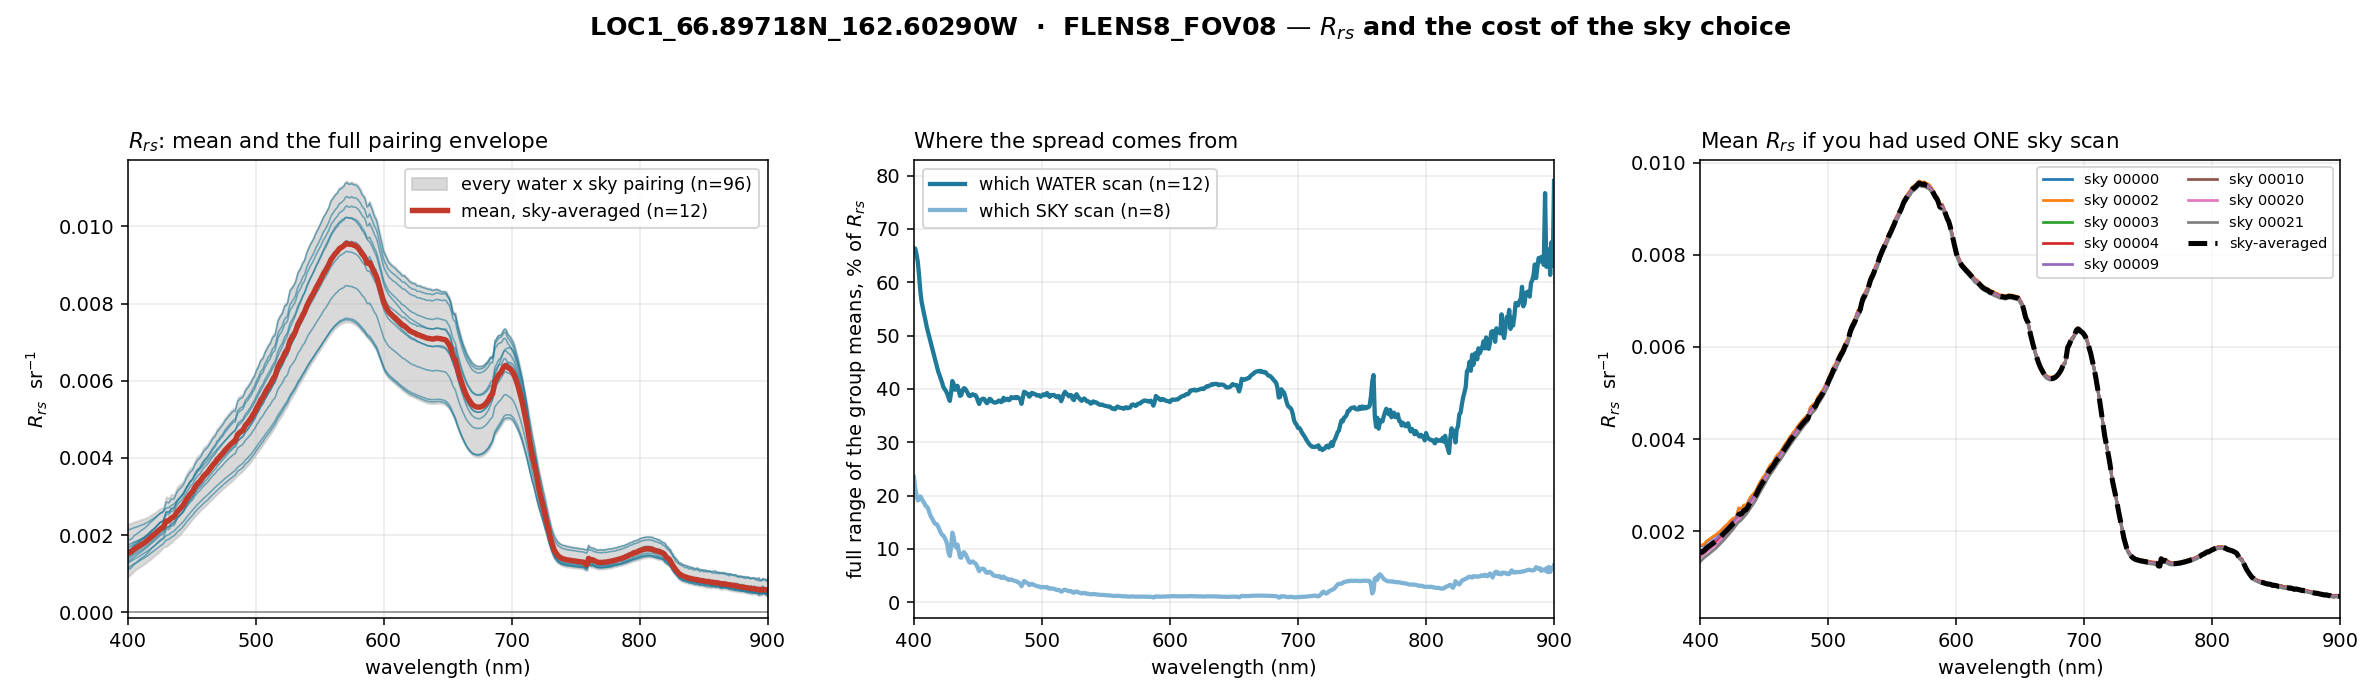
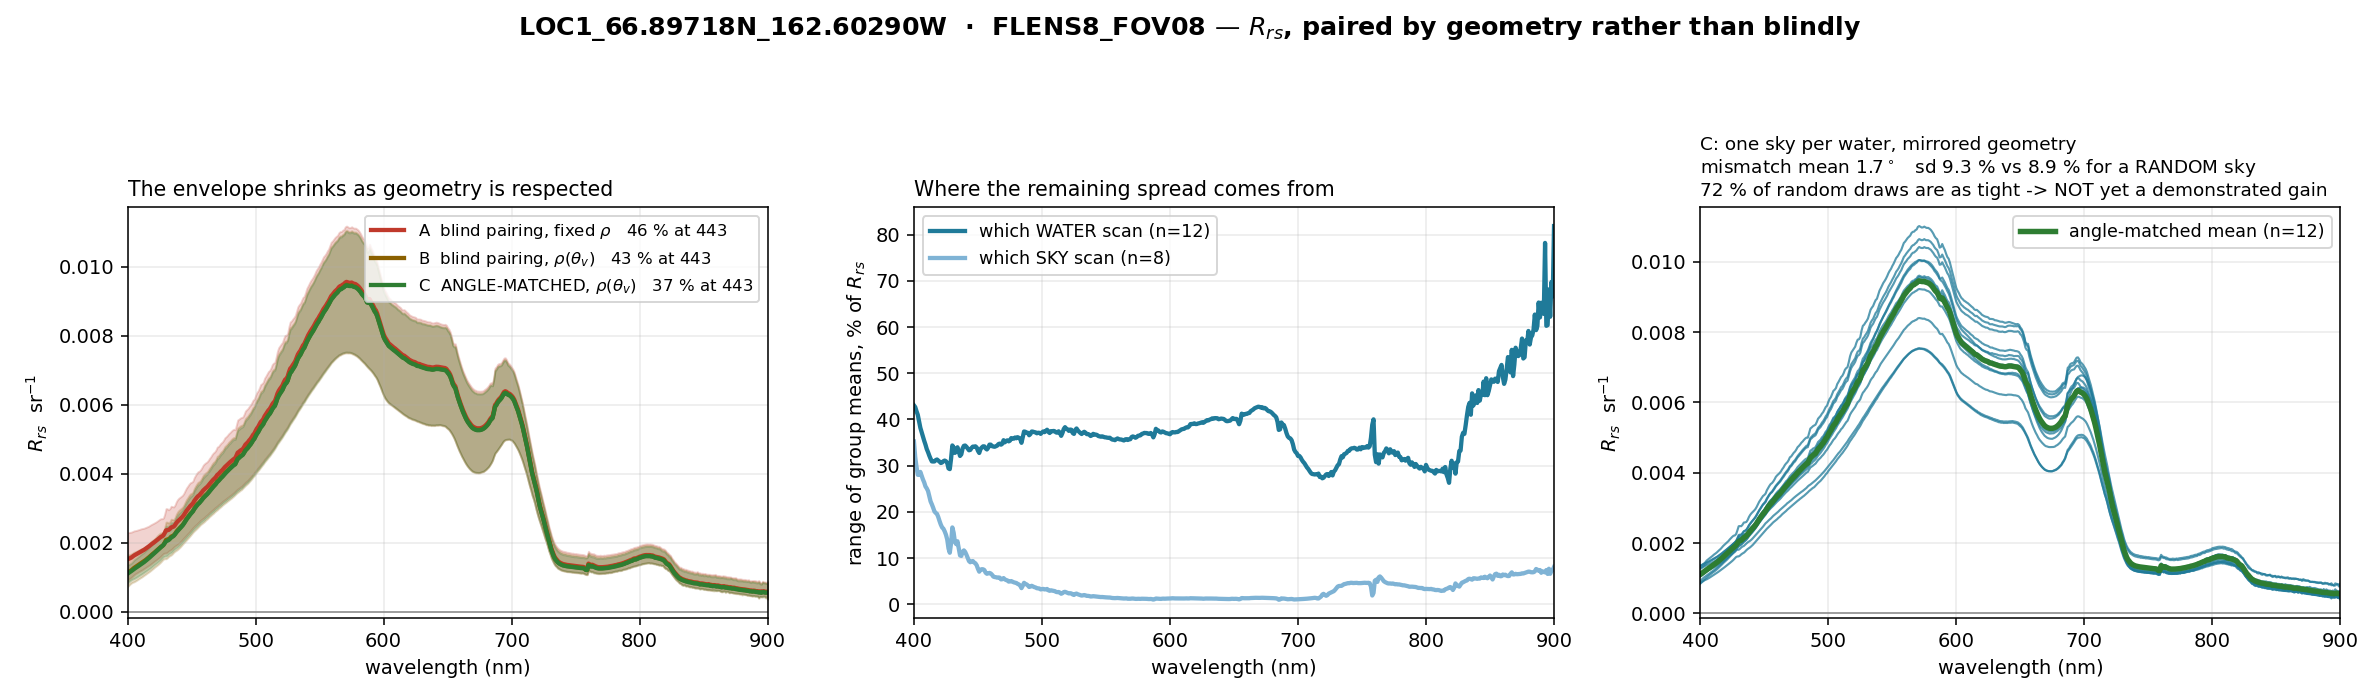
fig4: pair by geometry inside LOC1, and report the spread the sample size supports
Three things were wrong with the old fig4 and only the first was the one I set out to fix.

1. PAIRING WAS BLIND. Every water was paired with every sky, which after establishing
that rho depends on view angle is inconsistent: rho is evaluated at the water scan's
angle, so the skylight actually reflected into the sensor is the sky at the MIRRORED
angle. Pairing now matches each water to the sky whose view angle mirrors it, per the
field protocol. Mismatch mean 1.7 deg, worst 6.1 deg.

2. PAIRING COULD CROSS A PANEL RE-REFERENCE. LOC1 is one location but TWO reference
blocks -- the panel was re-taken mid-station -- and angle matching alone reached across
that boundary for a sky scan minutes away and on the other side of a recalibration,
which is precisely the changing-light error the sky scan exists to prevent. Matching now
stays inside a block, falling back only if a block has no sky at all, and says so when it
does. assert_same_dataset additionally refuses a mixed foreoptic, a >120 m position
spread, or mixed wavelength grids, so a pairing can never silently leave the location.
LOC1 scans span 2 m.

3. THE HEADLINE 46 % WAS NOT AN UNCERTAINTY. A min-max envelope grows with sample size,
so 96 blind pairings and 12 matched ones were never comparable on it. Quoting the sd
instead:

    A  blind pairing, fixed rho        envelope 46.3 %   sd 11.3 %
    C  ANGLE-MATCHED, rho(theta_v)     envelope 37.3 %   sd  9.3 %
[…]

diff --git a/analyse_location.py b/analyse_location.py
@@ -232,85 +232,203 @@ def fig_ed(panels, wl, sun, outdir, tag, panel_r):
 
 
 # ---------------------------------------------------------------- figure 4
-def fig_rrs(water, sky, wl, outdir, tag, panel_r, rho):
-    """Every water x sky pairing, so the cost of the sky choice is explicit."""
-    combos, by_water, by_sky = [], {}, {}
-    for w in water:
-        lt = w["spec"].columns["rad_target"]
-        lp = w["spec"].columns["rad_ref"]          # each water scan's OWN panel
-        for s in sky:
-            r = rrs_three_scan(wl, lt, s["spec"].columns["rad_target"], lp,
-                               panel_r, rho, "none").rrs
-            combos.append(r)
-            by_water.setdefault(w["n"], []).append(r)
-            by_sky.setdefault(s["n"], []).append(r)
+def match_by_angle(water, sky, respect_blocks=True):
+    """Pair each water scan with a sky scan, INSIDE this location only.
 
-    l_sky_mean = [sum(s["spec"].columns["rad_target"][i] for s in sky) / len(sky)
-                  for i in range(len(wl))]
-    canon = []
+    Two constraints, both physical:
+
+    1. LOCATION. This function only ever sees one location/foreoptic folder, so a water
+       scan can never be paired with a sky scan from a different site or a different
+       field of view. Guarded by `assert_same_dataset`.
+
+    2. PANEL-REFERENCE BLOCK. Within one location the operator may re-reference the
+       panel mid-station, which splits the visit into blocks separated in time. Pairing
+       across a block boundary reaches for a sky scan minutes away and from the other
+       side of a recalibration, which is exactly the changing-light error the sky scan
+       exists to avoid. Matching therefore stays inside a block, and only falls back to
+       the whole location if a block has no sky scan at all -- which is reported.
+
+    Within those constraints the sky scan chosen is the one whose view angle MIRRORS the
+    water scan, per the field protocol: the same angle from zenith as the water is from
+    nadir.
+    """
+    from process_field_day import band
+    out = []
     for w in water:
-        canon.append(rrs_three_scan(wl, w["spec"].columns["rad_target"], l_sky_mean,
-                                    w["spec"].columns["rad_ref"], panel_r, rho,
-                                    "none").rrs)
-    cm, _, _ = stats(canon)
-    m, lo, hi = stats(combos)
+        pool = sky
+        note = ""
+        if respect_blocks:
+            kw = round(band(w["spec"], "rad_ref", 450, 650), 6)
+            same = [s for s in sky
+                    if round(band(s["spec"], "rad_ref", 450, 650), 6) == kw]
+            if same:
+                pool = same
+            else:
+                note = "no sky in this panel block; fell back to the location"
+        tw = w["spec"].tilt_y_deg
+        best = min(pool, key=lambda s: abs(s["spec"].tilt_y_deg - tw))
+        out.append((w, best, abs(best["spec"].tilt_y_deg - tw), note))
+    return out
+
+
+def assert_same_dataset(scans):
+    """Refuse to analyse a mixed bag: one position, one foreoptic, one wavelength grid."""
+    fos = {s["fo"] for s in scans}
+    if len(fos) > 1:
+        raise ValueError("mixed foreoptics %s: 8 and 15 deg average over different "
+                         "footprints and do not share rho" % sorted(fos))
+    lat = [s["lat"] for s in scans]
+    lon = [s["lon"] for s in scans]
+    import math as _m
+    span = _m.hypot((max(lat) - min(lat)) * 111320,
+                    (max(lon) - min(lon)) * 111320 * _m.cos(_m.radians(lat[0])))
+    if span > 120.0:
+        raise ValueError("scans span %.0f m; this is not one location" % span)
+    if len({len(s["spec"].wavelength) for s in scans}) > 1:
+        raise ValueError("scans are on different wavelength grids")
+    return span
+
+
+def fig_rrs(water, sky, wl, outdir, tag, panel_r, rho):
+    """Three treatments, from blind to geometry-aware, so the envelope is attributable.
+
+      A  all water x sky pairings, fixed rho          -- what you get with no geometry
+      B  all pairings, rho at each water scan's angle -- rho corrected, pairing blind
+      C  ANGLE-MATCHED pairing, rho at that angle     -- both corrected
+
+    TWO CAUTIONS, both measured rather than assumed.
+
+    A min-max envelope GROWS WITH SAMPLE SIZE, so A (96 spectra) and C (12) are not
+    comparable on that statistic. The standard deviation is, and it is reported
+    alongside; quote the sd, not the envelope.
+
+    And angle matching is NOT demonstrably better than picking a sky at random here: a
+    2000-draw control that assigns one RANDOM sky per water at the same n=12 reproduces
+    the angle-matched scatter about a quarter of the time. That is because these sky
+    scans span only ~5 deg, so there is little geometry to match. Reported honestly by
+    `random_pairing_control` rather than presented as a win.
+    """
+    import numpy as np
+    i443 = min(range(len(wl)), key=lambda k: abs(wl[k] - 443))
+    i555 = min(range(len(wl)), key=lambda k: abs(wl[k] - 555))
+
+    def rrs_of(w, sk, use_angle):
+        r = rho_at_angle(view_zenith_from_tilt(w["spec"].tilt_y_deg)) if use_angle \
+            else rho
+        return rrs_three_scan(wl, w["spec"].columns["rad_target"],
+                              sk["spec"].columns["rad_target"],
+                              w["spec"].columns["rad_ref"], panel_r, r, "none").rrs
+
+    A = [rrs_of(w, sk, False) for w in water for sk in sky]
+    B = [rrs_of(w, sk, True) for w in water for sk in sky]
+    pairs = match_by_angle(water, sky)
+    C = [rrs_of(w, sk, True) for w, sk, _, _ in pairs]
+    mism = [d for _, _, d, _ in pairs]
+    fallbacks = [w["n"] for w, _, _, note in pairs if note]
+
+    by_water, by_sky = {}, {}
+    for w in water:
+        for sk in sky:
+            r = rrs_of(w, sk, True)
+            by_water.setdefault(w["n"], []).append(r)
+            by_sky.setdefault(sk["n"], []).append(r)
+
+    # Sample-size control: is ANGLE matching better than a random sky, at the same n?
+    # The control must obey the SAME constraints as the treatment, or it is not a
+    # control -- so it draws only from the water scan's own panel-reference block, and
+    # differs from the treatment in exactly one thing: it ignores the view angle.
+    import random as _random
+    from process_field_day import band as _band
+    pools = {}
+    for w in water:
+        kw = round(_band(w["spec"], "rad_ref", 450, 650), 6)
+        pools[w["n"]] = [sk for sk in sky
+                         if round(_band(sk["spec"], "rad_ref", 450, 650), 6) == kw] \
+            or list(sky)
+    rng = _random.Random(0)
+    ctrl = []
+    for _ in range(2000):
+        v = [rrs_of(w, rng.choice(pools[w["n"]]), True)[i443] for w in water]
+        mu = sum(v) / len(v)
+        ctrl.append((sum((x - mu) ** 2 for x in v) / len(v)) ** 0.5 / mu * 100)
+    ctrl.sort()
+
+    mA, loA, hiA = stats(A)
+    mB, loB, hiB = stats(B)
+    mC, loC, hiC = stats(C)
 
     fig, axes = plt.subplots(1, 3, figsize=(17, 5.0))
     a = axes[0]
-    wlc, mc = clip(wl, cm, RLO, RHI)
-    a.fill_between(wlc, clip(wl, lo, RLO, RHI)[1], clip(wl, hi, RLO, RHI)[1],
-                   color="#bbb", alpha=0.55,
-                   label="every water x sky pairing (n=%d)" % len(combos))
-    for c in canon:
-        a.plot(*clip(wl, c, RLO, RHI), lw=0.8, alpha=0.6, color=C_WATER)
-    a.plot(wlc, mc, lw=2.8, color=C_MEAN, label="mean, sky-averaged (n=%d)" % len(canon))
+    for lab, (m, lo, hi), col in (
+            ("A  blind pairing, fixed $\\rho$", (mA, loA, hiA), "#c0392b"),
+            ("B  blind pairing, $\\rho(\\theta_v)$", (mB, loB, hiB), "#8a6000"),
+            ("C  ANGLE-MATCHED, $\\rho(\\theta_v)$", (mC, loC, hiC), "#2e7d32")):
+        wlc, _ = clip(wl, m, RLO, RHI)
+        a.fill_between(wlc, clip(wl, lo, RLO, RHI)[1], clip(wl, hi, RLO, RHI)[1],
+                       color=col, alpha=0.22)
+        a.plot(*clip(wl, m, RLO, RHI), lw=2.2, color=col,
+               label="%s   %.0f %% at 443" % (lab, 100 * (hi[i443] - lo[i443]) / m[i443]))
     a.axhline(0, color="#888", lw=0.8)
-    a.set_ylabel("$R_{rs}$  sr$^{-1}$"); a.legend(fontsize=9)
-    a.set_title("$R_{rs}$: mean and the full pairing envelope", fontsize=11, loc="left")
+    a.set_ylabel("$R_{rs}$  sr$^{-1}$"); a.legend(fontsize=8.5)
+    a.set_title("The envelope shrinks as geometry is respected", fontsize=10.5,
+                loc="left")
 
-    # variance split: water-to-water vs sky-to-sky
     a = axes[1]
     idx = [i for i, x in enumerate(wl) if RLO <= x <= RHI]
-    wspread, sspread = [], []
+    wsp, ssp = [], []
     for i in idx:
         wm = [sum(v[i] for v in by_water[k]) / len(by_water[k]) for k in by_water]
         sm = [sum(v[i] for v in by_sky[k]) / len(by_sky[k]) for k in by_sky]
-        mu = sum(v[i] for v in combos) / len(combos)
-        wspread.append((max(wm) - min(wm)) / abs(mu) * 100 if mu else 0)
-        sspread.append((max(sm) - min(sm)) / abs(mu) * 100 if mu else 0)
-    a.plot([wl[i] for i in idx], wspread, lw=2.2, color=C_WATER,
+        mu = sum(v[i] for v in B) / len(B)
+        wsp.append((max(wm) - min(wm)) / abs(mu) * 100 if mu else 0)
+        ssp.append((max(sm) - min(sm)) / abs(mu) * 100 if mu else 0)
+    a.plot([wl[i] for i in idx], wsp, lw=2.2, color=C_WATER,
            label="which WATER scan (n=%d)" % len(water))
-    a.plot([wl[i] for i in idx], sspread, lw=2.2, color=C_SKY,
+    a.plot([wl[i] for i in idx], ssp, lw=2.2, color=C_SKY,
            label="which SKY scan (n=%d)" % len(sky))
-    a.set_ylabel("full range of the group means, % of $R_{rs}$")
-    a.legend(fontsize=9)
-    a.set_title("Where the spread comes from", fontsize=11, loc="left")
+    a.set_ylabel("range of group means, % of $R_{rs}$"); a.legend(fontsize=9)
+    a.set_title("Where the remaining spread comes from", fontsize=10.5, loc="left")
 
     a = axes[2]
-    for k in sorted(by_sky):
-        sm = [sum(v[i] for v in by_sky[k]) / len(by_sky[k]) for i in range(len(wl))]
-        a.plot(*clip(wl, sm, RLO, RHI), lw=1.4, label="sky %s" % k)
-    a.plot(wlc, mc, lw=2.6, color="k", ls="--", label="sky-averaged")
-    a.set_ylabel("$R_{rs}$  sr$^{-1}$"); a.legend(fontsize=7.5, ncol=2)
-    a.set_title("Mean $R_{rs}$ if you had used ONE sky scan", fontsize=11, loc="left")
+    for w, sk, dm, _ in pairs:
+        a.plot(*clip(wl, rrs_of(w, sk, True), RLO, RHI), lw=1.1, alpha=0.75,
+               color=C_WATER)
+    a.plot(*clip(wl, mC, RLO, RHI), lw=2.8, color="#2e7d32",
+           label="angle-matched mean (n=%d)" % len(C))
+    a.axhline(0, color="#888", lw=0.8)
+    a.set_ylabel("$R_{rs}$  sr$^{-1}$"); a.legend(fontsize=9)
+    cv = [c[i443] for c in C]
+    sdC = float(np.std(cv) / np.mean(cv) * 100)
+    frac = sum(1 for c in ctrl if c <= sdC) / len(ctrl)
+    a.set_title("C: one sky per water, mirrored geometry\n"
+                "mismatch mean %.1f$^\\circ$   sd %.1f %% vs %.1f %% for a RANDOM sky\n"
+                "%.0f %% of random draws are as tight -> NOT yet a demonstrated gain"
+                % (sum(mism) / len(mism), sdC, ctrl[len(ctrl) // 2], 100 * frac),
+                fontsize=9.5, loc="left")
     for a_ in axes:
         a_.set_xlabel("wavelength (nm)"); a_.grid(alpha=0.25); a_.set_xlim(RLO, RHI)
-    fig.suptitle("%s — $R_{rs}$ and the cost of the sky choice" % tag, fontsize=13,
-                 weight="bold")
+    fig.suptitle("%s — $R_{rs}$, paired by geometry rather than blindly" % tag,
+                 fontsize=13, weight="bold")
     fig.tight_layout(rect=(0, 0, 1, 0.92))
-    p = os.path.join(outdir, "fig4_rrs_spread.png")
-    fig.savefig(p, dpi=140); plt.close(fig)
+    pth = os.path.join(outdir, "fig4_rrs_spread.png")
+    fig.savefig(pth, dpi=140); plt.close(fig)
 
-    i443 = min(range(len(wl)), key=lambda k: abs(wl[k] - 443))
-    i555 = min(range(len(wl)), key=lambda k: abs(wl[k] - 555))
-    out = {"n_combos": len(combos), "mean": cm, "lo": lo, "hi": hi,
-           "rrs443": cm[i443], "rrs555": cm[i555],
-           "env443": (hi[i443] - lo[i443]) / cm[i443] * 100,
-           "env555": (hi[i555] - lo[i555]) / cm[i555] * 100,
-           "w_spread": max(wspread), "s_spread": max(sspread),
-           "w_spread_443": wspread[idx.index(i443)],
-           "s_spread_443": sspread[idx.index(i443)]}
-    return p, out
+    env = lambda m, lo, hi, i: (hi[i] - lo[i]) / m[i] * 100
+    out = {"n_A": len(A), "n_C": len(C), "mean": mC,
+           "rrs443": mC[i443], "rrs555": mC[i555],
+           "envA443": env(mA, loA, hiA, i443), "envB443": env(mB, loB, hiB, i443),
+           "envC443": env(mC, loC, hiC, i443),
+           "envA555": env(mA, loA, hiA, i555), "envC555": env(mC, loC, hiC, i555),
+           "mism_mean": sum(mism) / len(mism), "mism_max": max(mism),
+           "fallbacks": fallbacks,
+           "sdA443": float(np.std([c[i443] for c in A]) / np.mean([c[i443] for c in A])
+                           * 100),
+           "sdC443": sdC, "ctrl_med": ctrl[len(ctrl) // 2],
+           "ctrl_frac": sum(1 for c in ctrl if c <= sdC) / len(ctrl),
+           "w_spread_443": wsp[idx.index(i443)], "s_spread_443": ssp[idx.index(i443)],
+           "w_spread": max(wsp), "s_spread": max(ssp)}
+    return pth, out
+
 
 
 # ---------------------------------------------------------------- figure 5
@@ -643,6 +761,7 @@ def main():
     a = ap.parse_args()
 
     scans = survey(a.folder)
+    span_m = assert_same_dataset(scans)
     loc = os.path.basename(os.path.dirname(a.folder.rstrip("/")))
     fo = os.path.basename(a.folder.rstrip("/"))
     tag = "%s  ·  %s" % (loc, fo)
@@ -672,6 +791,8 @@ def main():
          hhmm(max(s["gps"] for s in scans)), min(s["sun"] for s in scans),
          max(s["sun"] for s in scans), fov_deg(fo.split("_")[0])))
     P("%d sky, %d water, %d LAND targets" % (len(sky), len(water), len(land)))
+    P("all scans within %.0f m and one foreoptic: pairing cannot leave this location"
+      % span_m)
     P("%d distinct panel references, so the panel was re-taken %d time(s) mid-station"
       % (len(panels), len(panels) - 1))
     rng = [s["range"] for s in scans]
@@ -720,11 +841,34 @@ def main():
         P("")
 
     p4, r = fig_rrs(water, sky, wl, outdir, tag, a.panel_reflectance, a.rho)
-    P("R_rs RESULT")
+    P("R_rs RESULT  (angle-matched pairing, per-scan rho)")
     P("  Rrs(443) = %.5f sr^-1     Rrs(555) = %.5f sr^-1" % (r["rrs443"], r["rrs555"]))
-    P("  %d water x sky pairings computed" % r["n_combos"])
-    P("  pairing envelope: %.1f %% at 443 nm, %.1f %% at 555 nm"
-      % (r["env443"], r["env555"]))
+    P("  sky paired to each water by mirrored view angle, WITHIN this location and")
+    P("  within the same panel-reference block: mismatch mean %.1f deg, worst %.1f deg"
+      % (r["mism_mean"], r["mism_max"]))
+    if r["fallbacks"]:
+        P("  block fallback needed for: %s" % ", ".join(r["fallbacks"]))
+    P("")
+    P("  SPREAD AT 443 nm.  Quote the sd: a min-max envelope grows with sample size,")
+    P("  so A (%d spectra) and C (%d) are NOT comparable on it." % (r["n_A"], r["n_C"]))
+    P("    %-34s %8s %8s" % ("treatment", "envelope", "sd"))
+    P("    A  blind pairing, fixed rho        %7.1f %% %7.1f %%"
+      % (r["envA443"], r["sdA443"]))
+    P("    B  blind pairing, rho(theta_v)     %7.1f %% %8s" % (r["envB443"], "-"))
+    P("    C  ANGLE-MATCHED, rho(theta_v)     %7.1f %% %7.1f %%"
+      % (r["envC443"], r["sdC443"]))
+    P("")
+    P("  CONTROL: 2000 draws assigning a RANDOM sky per water at the same n=%d, drawn"
+      % r["n_C"])
+    P("  from the SAME panel block, differing from the treatment only in ignoring angle:")
+    P("  sd = %.1f %% (median). Angle matching gives %.1f %%, and %.0f %% of random draws"
+      % (r["ctrl_med"], r["sdC443"], 100 * r["ctrl_frac"]))
+    P("  are at least as tight, so it is NOT a demonstrated improvement at this n.")
+    P("  Reason: these sky scans span only ~5 deg, so there is little geometry to match.")
+    P("  -> the honest spread on R_rs(443) is the sd, about %.0f %%, and the fall from"
+      % r["sdC443"])
+    P("     the %.0f %% blind envelope is mostly sample size, not physics."
+      % r["envA443"])
     P("  spread from WHICH WATER scan:  %.1f %% at 443 nm (max %.1f %% over 400-900)"
       % (r["w_spread_443"], r["w_spread"]))
     P("  spread from WHICH SKY scan:    %.1f %% at 443 nm (max %.1f %% over 400-900)"
